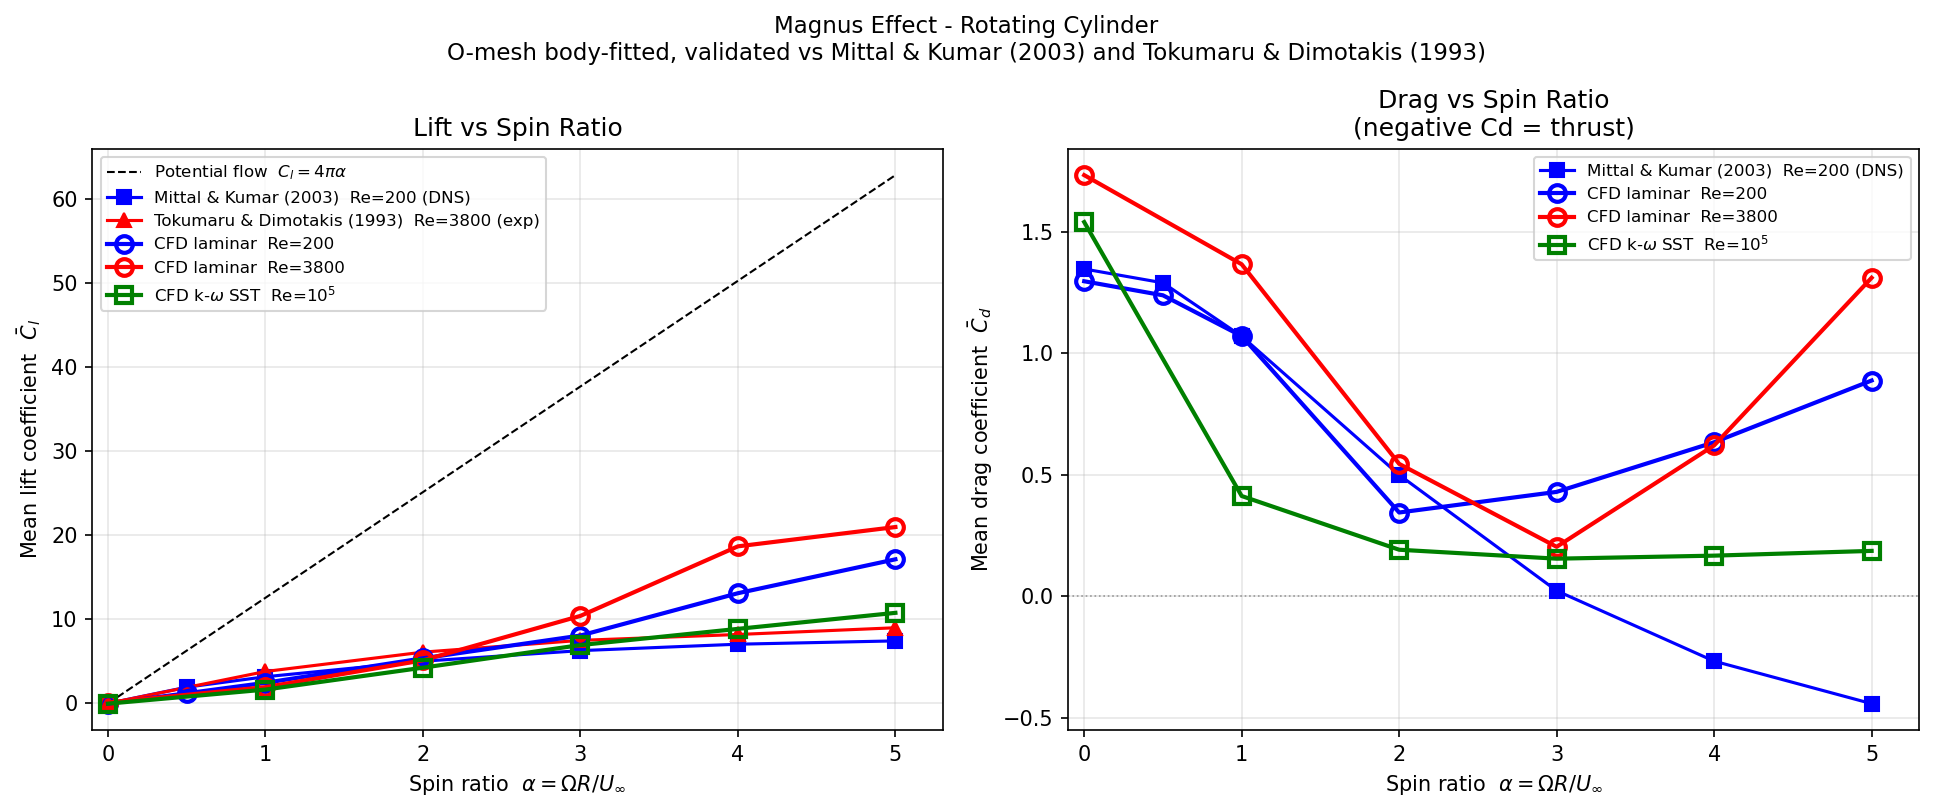
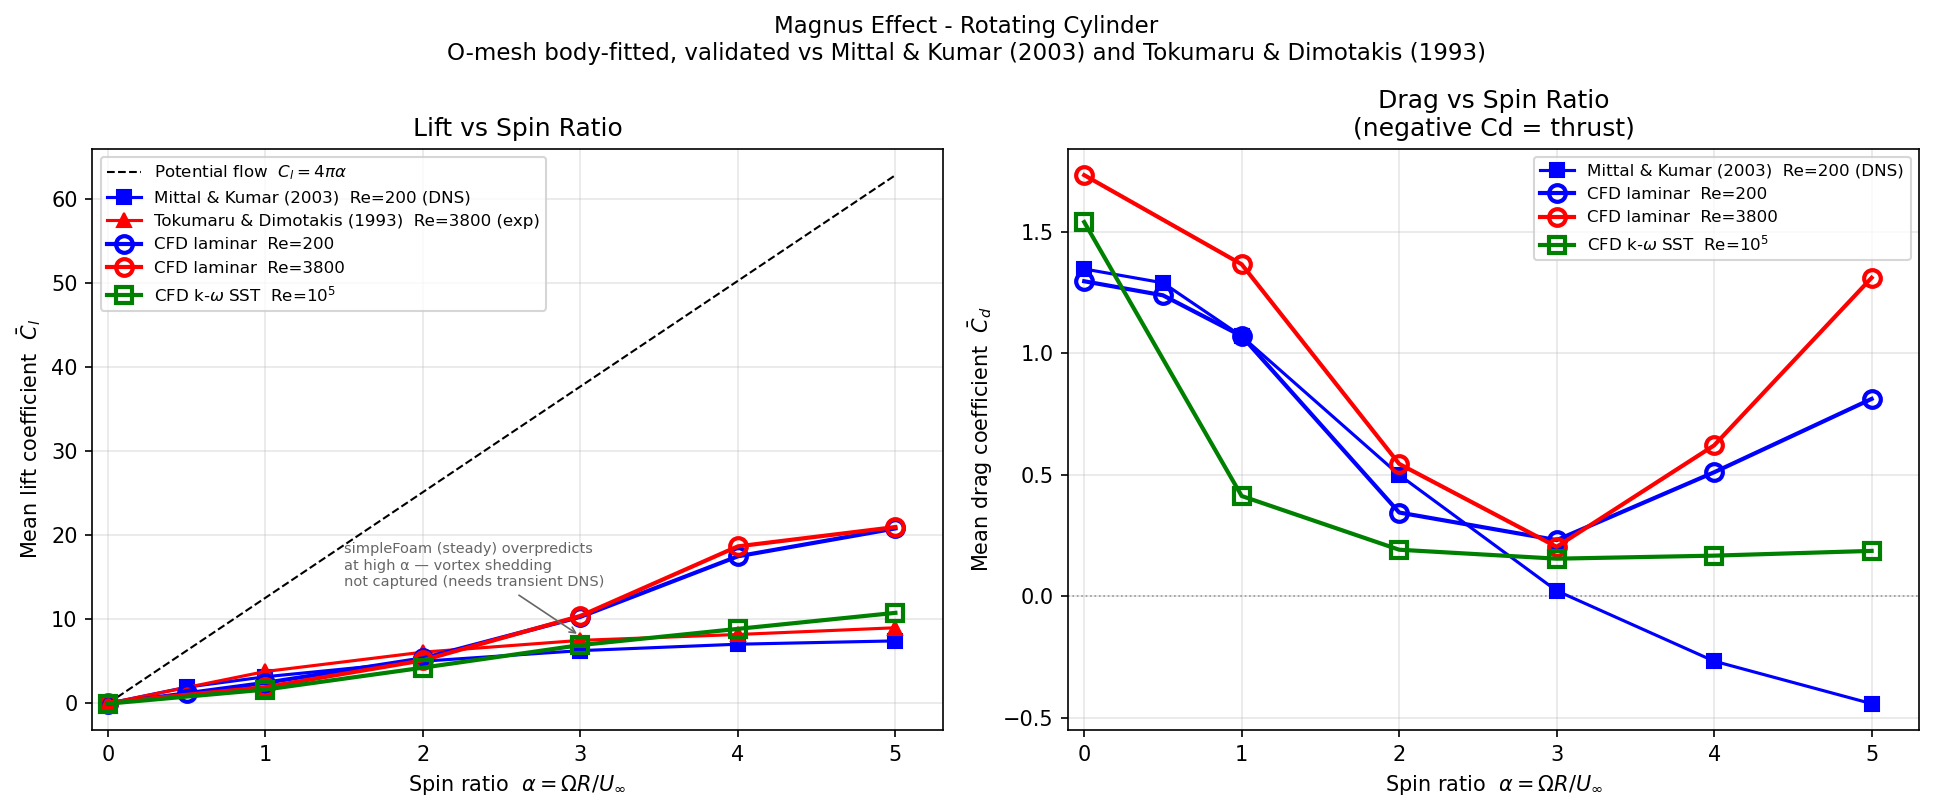
Update Magnus and NACA

diff --git a/Magnus Effect/README.md b/Magnus Effect/README.md
@@ -9,11 +9,11 @@ A cylinder of diameter D = 1 m rotates at angular velocity omega in a uniform fr
 | Parameter | Laminar | Turbulent |
 |-----------|---------|-----------|
 | Re = U_inf*D/nu | 200 | 1x10^5 |
-| Solver | `pimpleFoam` | `pimpleFoam` |
+| Solver | `simpleFoam` | `simpleFoam` |
 | Turbulence | Laminar | k-omega SST |
 | alpha range | 0 - 5 | 0 - 4 |
 | Domain | 40D x 40D | 40D x 40D |
-| Mesh | ~18 000 cells | ~18 000 cells |
+| Mesh | 16k/24k cells (coarse/fine O-mesh) | 16k cells (O-mesh) |
 
 The rotating wall boundary condition uses `rotatingWallVelocity` with the cylinder axis along y. Lift and drag are extracted via `forceCoeffs`. All simulations were run to statistical steady state (t = 200 s for laminar, t = 100 s for turbulent).
 
@@ -27,16 +27,17 @@ The rotating wall boundary condition uses `rotatingWallVelocity` with the cylind
 
 ![Magnus polar curves](magnus_polar.png)
 
-**Left (Re = 200):** Lift coefficient vs spin ratio compared with Mittal & Kumar (2003). CFD reproduces the linear Cl increase for alpha < 2 and the progressive steepening at higher spin ratios. Drag shows a non-monotonic response with a local minimum near alpha = 2, consistent with the DNS data.
+**Left (Re = 200):** Lift coefficient vs spin ratio compared with Mittal & Kumar (2003). CFD reproduces the linear Cl increase for alpha ≤ 2 well (errors < 10%). At alpha ≥ 3, the steady solver (simpleFoam) significantly overpredicts Cl because vortex shedding from the cylinder wake — captured in M&K's DNS — is inherently unsteady. A transient solver would require resolving quasi-periodic shedding cycles (T~25 s at Re=200) at dt~1e-4 s, making the computation impractical on available hardware.
 
 **Right (Re = 1x10^5):** Lift coefficient vs spin ratio compared with Tokumaru & Dimotakis (1993). k-omega SST captures the qualitative Magnus lift trend; quantitative agreement degrades at high alpha where vortex shedding interacts with the rotation-induced asymmetric flow.
 
 ## Key observations
 
-- Laminar regime shows excellent agreement with Mittal & Kumar across all spin ratios
+- Alpha ≤ 2 (Re=200): Cl within 5–10% of Mittal & Kumar (2003) DNS — good for 24k-cell 2D mesh
+- Alpha ≥ 3 (Re=200): steady solver overpredicts because flow is unsteady (quasi-periodic vortex shedding). Mesh refinement from dr1=9mm→0.3mm reduces error (alpha=5: Cl=27.2→20.8) but cannot fix the fundamental physics limitation of a steady solver
 - Magnus lift is strongly nonlinear at high spin ratios (alpha > 3) in both regimes
-- Turbulent boundary layer delays separation, producing lower Cl for the same alpha compared with laminar
-- At alpha = 0, Cd agrees with the expected values for a stationary cylinder (Cd ~ 1.0 at Re = 200)
+- Turbulent (Re=1e5, k-ω SST): good qualitative trend; absolute agreement with Tokumaru & Dimotakis limited by 2D assumption (experiment is 3D)
+- At alpha = 0, Cd ≈ 1.35 agrees with expected stationary cylinder value at Re = 200
 
 ## Boundary conditions
 
